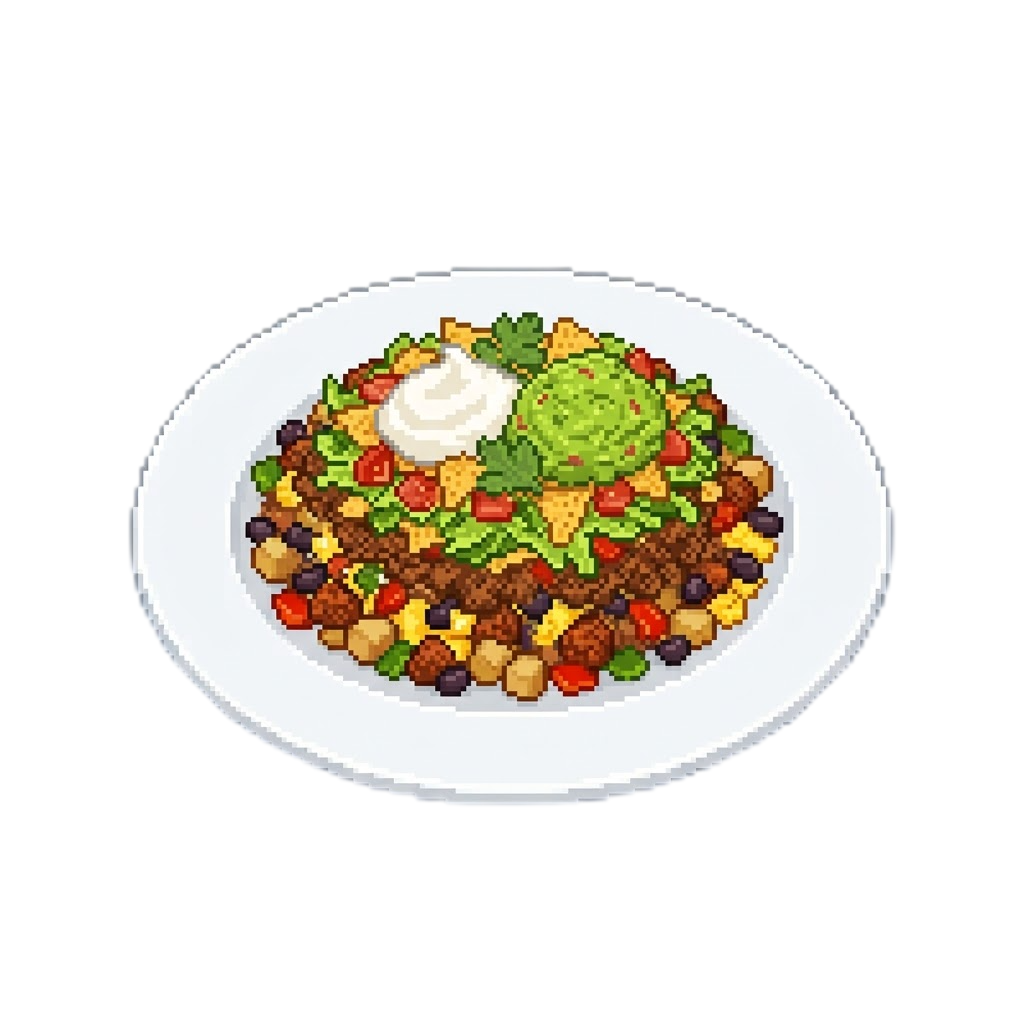
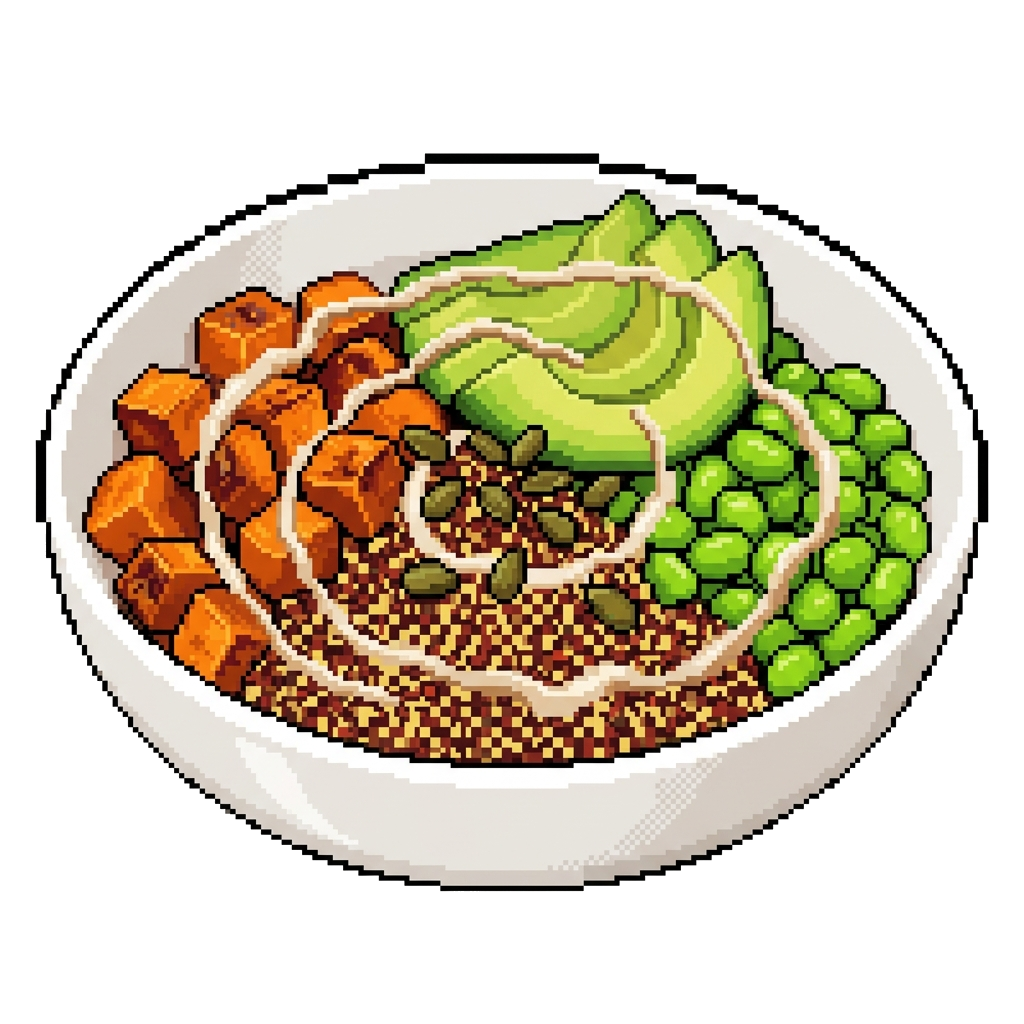
feat: generate authentic 16-bit food sprites and dynamic portion size scaling

diff --git a/src/lib/recipes.ts b/src/lib/recipes.ts
@@ -3,6 +3,7 @@ export interface Recipe {
   name: string;
   subtitle: string;
   image: string;
+  portionImages?: Partial<Record<0.5 | 1.0 | 1.5 | 2.0, string>>;
   calories: number;
   protein: number;
   carbs: number;
@@ -23,6 +24,11 @@ export const RECIPES: Recipe[] = [
     name: 'Herb Grilled Chicken & Crispy Greens',
     subtitle: 'Lean pasture-raised breast with rosemary and wilted greens',
     image: '/assets/food/grilled-chicken.png',
+    portionImages: {
+      0.5: '/assets/food/grilled-chicken-half.png',
+      1.0: '/assets/food/grilled-chicken.png',
+      2.0: '/assets/food/grilled-chicken-double.png',
+    },
     calories: 520,
     protein: 48,
     carbs: 16,
@@ -55,6 +61,11 @@ export const RECIPES: Recipe[] = [
     name: 'Truffle & Parmesan Tagliatelle',
     subtitle: 'Slow-digesting durum wheat with aged parmesan and truffle oil',
     image: '/assets/food/pasta.png',
+    portionImages: {
+      0.5: '/assets/food/pasta-half.png',
+      1.0: '/assets/food/pasta.png',
+      2.0: '/assets/food/pasta-double.png',
+    },
     calories: 610,
     protein: 18,
     carbs: 78,
@@ -87,6 +98,9 @@ export const RECIPES: Recipe[] = [
     name: 'Cast-Iron Skillet Eggs & Greens',
     subtitle: 'Pasture-raised farm eggs sunny-side up with charred asparagus',
     image: '/assets/food/skillet-eggs.png',
+    portionImages: {
+      1.0: '/assets/food/skillet-eggs.png',
+    },
     calories: 440,
     protein: 34,
     carbs: 12,
@@ -118,6 +132,9 @@ export const RECIPES: Recipe[] = [
     name: 'Smoked Citrus Fiesta Taco Bowl',
     subtitle: 'Grass-fed lean beef, black beans, sweet corn, and lime pico',
     image: '/assets/food/taco-bowl.png',
+    portionImages: {
+      1.0: '/assets/food/taco-bowl.png',
+    },
     calories: 560,
     protein: 42,
     carbs: 48,
@@ -150,6 +167,9 @@ export const RECIPES: Recipe[] = [
     name: 'Warm Ancient Grain & Avocado Bowl',
     subtitle: 'Tri-color quinoa, roasted sweet potatoes, and avocado wedges',
     image: '/assets/food/grain-bowl.png',
+    portionImages: {
+      1.0: '/assets/food/grain-bowl.png',
+    },
     calories: 490,
     protein: 22,
     carbs: 62,
@@ -181,7 +201,12 @@ export const RECIPES: Recipe[] = [
     id: 'avocado-sourdough-toast',
     name: 'Poached Egg & Whipped Avocado Sourdough',
     subtitle: 'Cold-fermented sourdough with chili flakes and microgreens',
-    image: '/assets/food/Avocado-Photoroom.png',
+    image: '/assets/food/avocado-toast.png',
+    portionImages: {
+      0.5: '/assets/food/avocado-toast-half.png',
+      1.0: '/assets/food/avocado-toast.png',
+      2.0: '/assets/food/avocado-toast-double.png',
+    },
     calories: 410,
     protein: 24,
     carbs: 38,
@@ -211,7 +236,12 @@ export const RECIPES: Recipe[] = [
     id: 'chimichurri-seared-steak',
     name: 'Cast-Iron Strip Steak with Fresh Chimichurri',
     subtitle: 'Dry-brined sirloin with raw parsley, oregano, and garlic vinaigrette',
-    image: '/assets/food/Chicken-Photoroom.png',
+    image: '/assets/food/steak-chimichurri.png',
+    portionImages: {
+      0.5: '/assets/food/steak-chimichurri-half.png',
+      1.0: '/assets/food/steak-chimichurri.png',
+      2.0: '/assets/food/steak-chimichurri-double.png',
+    },
     calories: 580,
     protein: 52,
     carbs: 6,
@@ -241,7 +271,10 @@ export const RECIPES: Recipe[] = [
     id: 'tamago-sesame-rice-bowl',
     name: 'Tamago Sesame Soft Egg Rice Bowl',
     subtitle: 'Steamed short-grain rice with furikake, soy glaze, and spring onions',
-    image: '/assets/food/EggRice-Photoroom.png',
+    image: '/assets/food/egg-rice-bowl.png',
+    portionImages: {
+      1.0: '/assets/food/egg-rice-bowl.png',
+    },
     calories: 460,
     protein: 26,
     carbs: 56,
@@ -271,7 +304,10 @@ export const RECIPES: Recipe[] = [
     id: 'garlic-prawn-linguine',
     name: 'Garlic Butter Prawn Linguine',
     subtitle: 'Wild-caught tiger prawns tossed with garlic, chili, and parsley',
-    image: '/assets/food/Pasta-Photoroom.png',
+    image: '/assets/food/prawn-linguine.png',
+    portionImages: {
+      1.0: '/assets/food/prawn-linguine.png',
+    },
     calories: 530,
     protein: 44,
     carbs: 54,

diff --git a/src/app/recipes/page.tsx b/src/app/recipes/page.tsx
@@ -463,14 +463,38 @@ function RecipesContent() {
               <X className="w-4 h-4" />
             </button>
 
-            {/* Pixel Art Image Anchor */}
+            {/* Pixel Art Image Anchor with Dynamic Portion Calibration */}
             <div className="w-full flex flex-col items-center justify-center pt-2 pb-1">
-              <div className="w-48 h-48 sm:w-56 sm:h-56 relative flex items-center justify-center">
+              <div className="w-48 h-48 sm:w-56 sm:h-56 relative flex items-center justify-center transition-all duration-300">
                 <img
-                  src={selectedRecipe.image}
-                  alt={selectedRecipe.name}
-                  className="w-full h-full object-contain [image-rendering:pixelated] drop-shadow-[15px_15px_0px_rgba(0,0,0,0.2)]"
+                  key={`${selectedRecipe.id}-${portionMultiplier}`}
+                  src={
+                    selectedRecipe.portionImages?.[portionMultiplier as 0.5 | 1.0 | 1.5 | 2.0] ||
+                    selectedRecipe.image
+                  }
+                  alt={`${selectedRecipe.name} (${portionMultiplier}x portion)`}
+                  style={{
+                    transform: !selectedRecipe.portionImages?.[portionMultiplier as 0.5 | 1.0 | 1.5 | 2.0]
+                      ? portionMultiplier === 0.5
+                        ? 'scale(0.86)'
+                        : portionMultiplier === 1.5
+                        ? 'scale(1.10)'
+                        : portionMultiplier === 2.0
+                        ? 'scale(1.22)'
+                        : 'scale(1)'
+                      : 'scale(1)',
+                  }}
+                  className="w-full h-full object-contain [image-rendering:pixelated] drop-shadow-[15px_15px_0px_rgba(0,0,0,0.2)] transition-transform duration-300 ease-out"
                 />
+              </div>
+              <div className="mt-2 text-[10px] font-mono font-bold px-3 py-1 rounded-full border-2 border-[#1A3629]/30 bg-[#F4F0EA] text-[#1A3629] tracking-wider uppercase">
+                {portionMultiplier === 0.5
+                  ? '0.5x · Light Snack Serving'
+                  : portionMultiplier === 1.0
+                  ? '1.0x · Standard Calibration'
+                  : portionMultiplier === 1.5
+                  ? '1.5x · Hearty Training Portion'
+                  : '2.0x · Double Protein Feast'}
               </div>
             </div>
 
